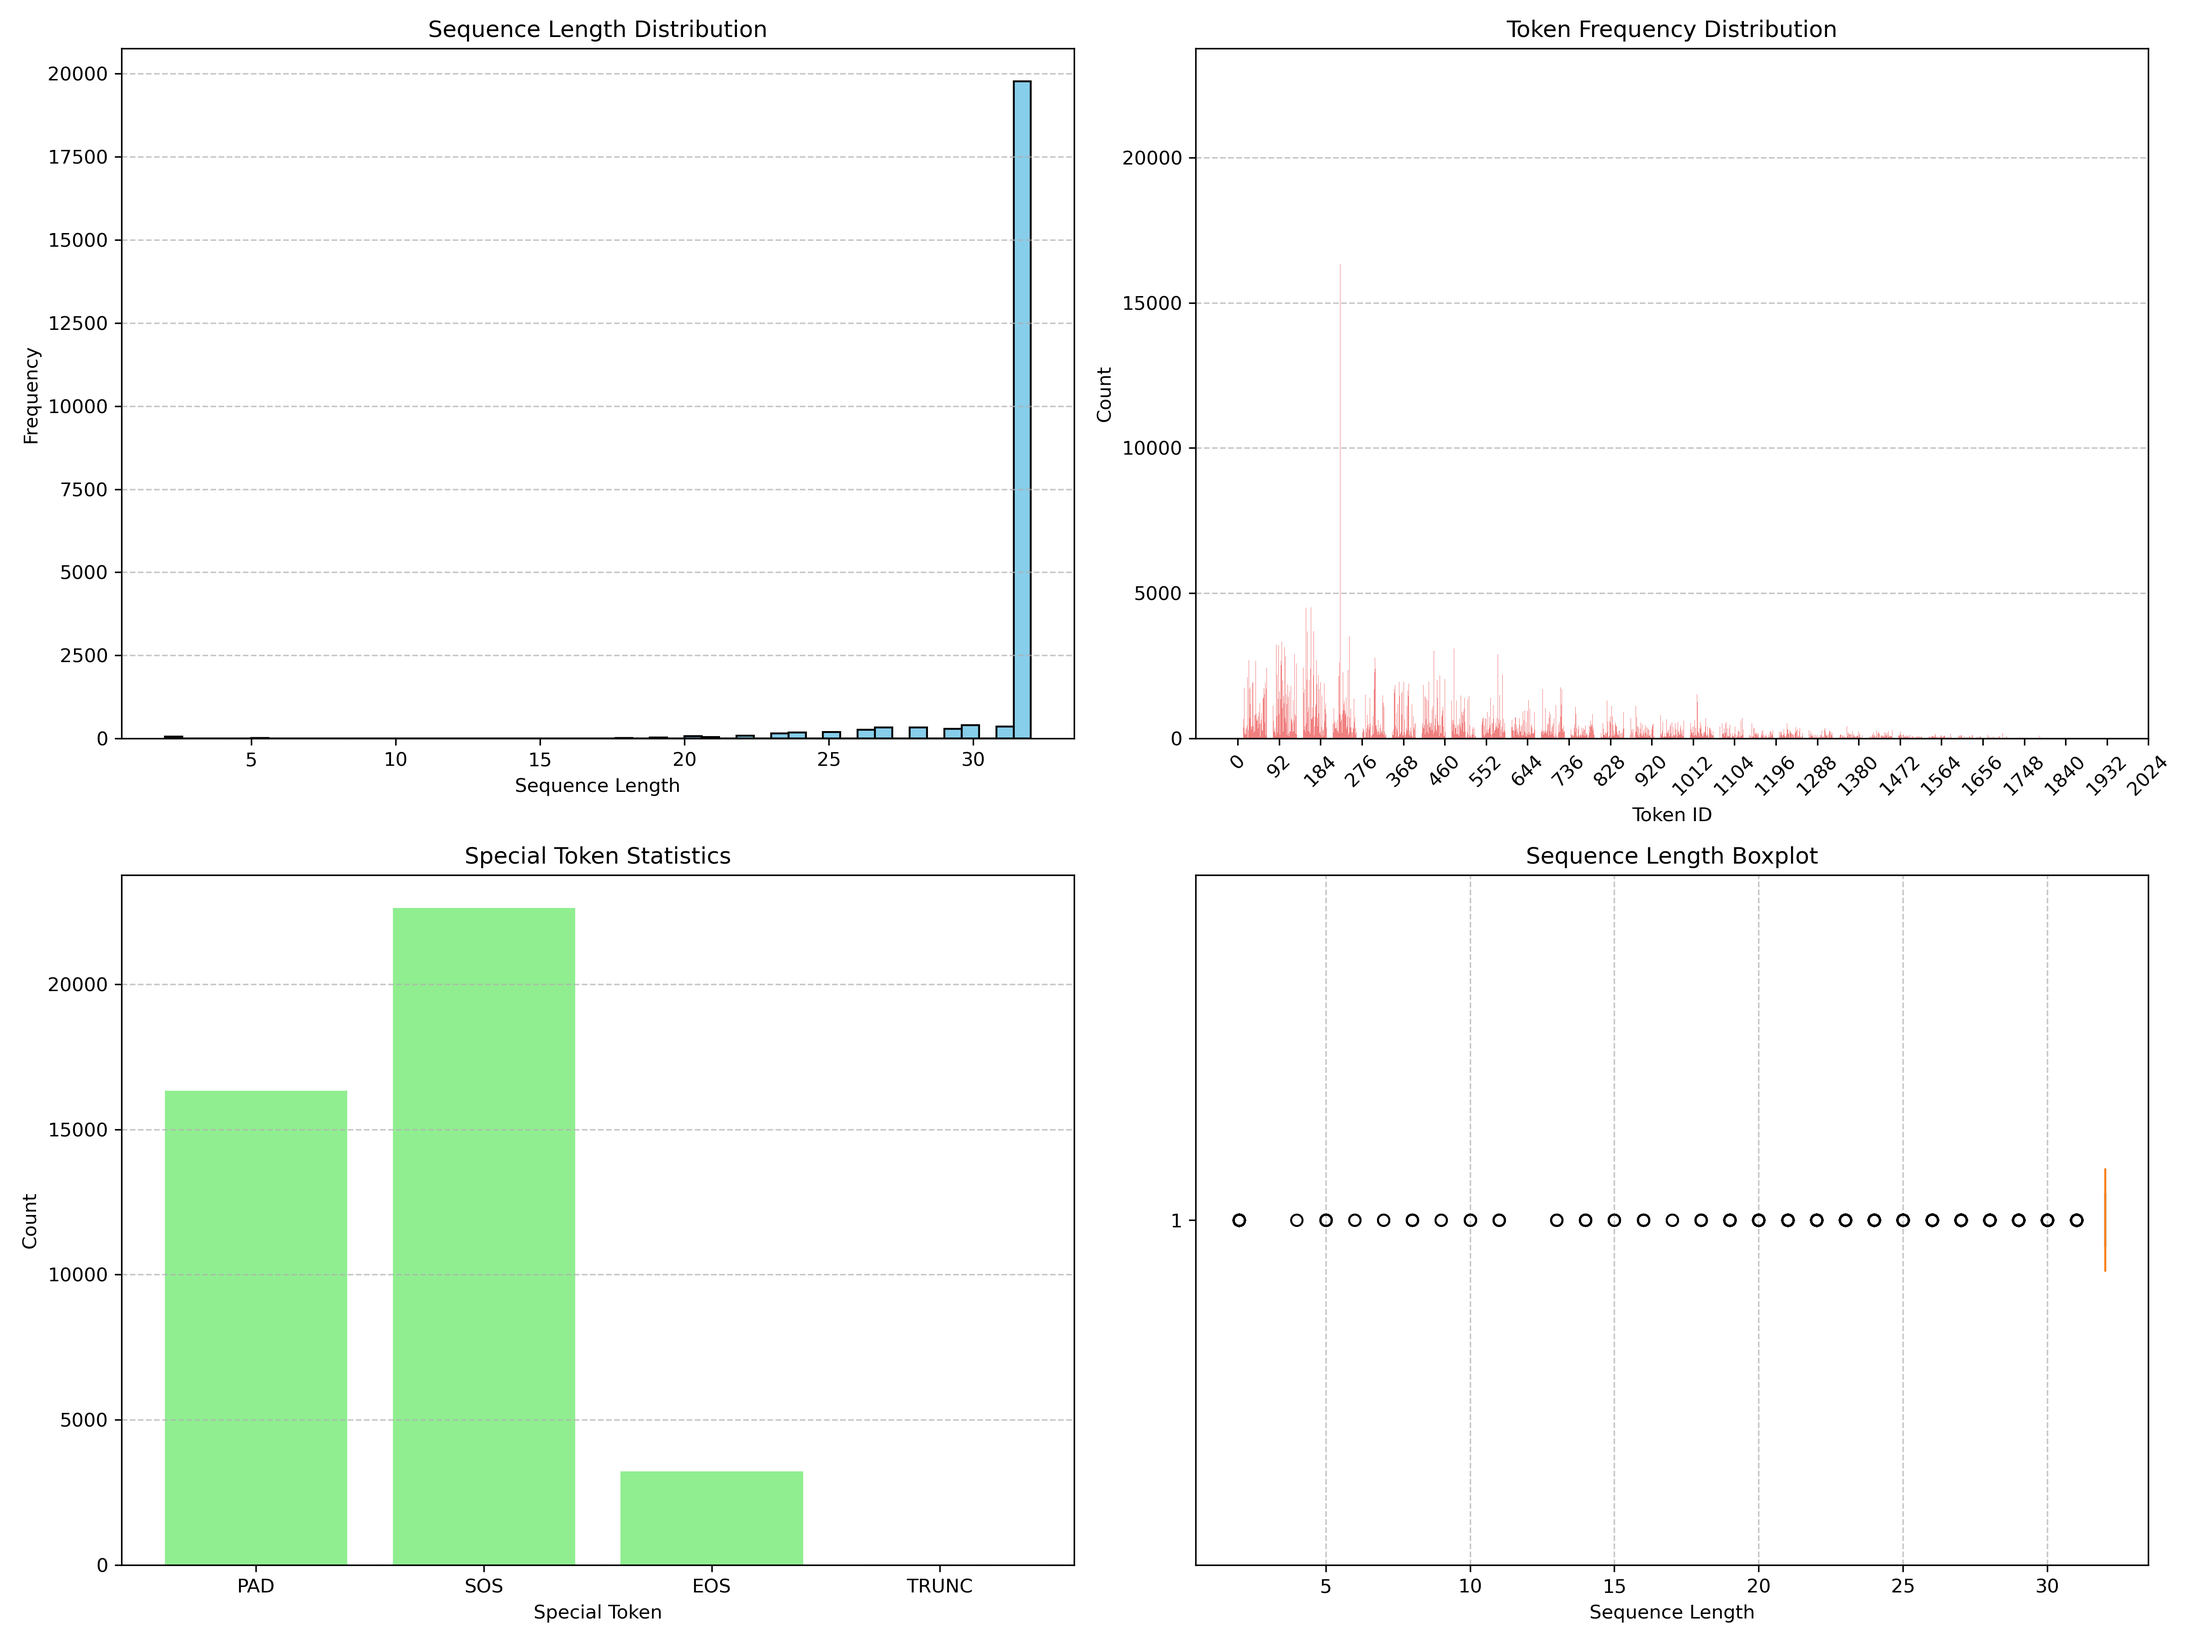
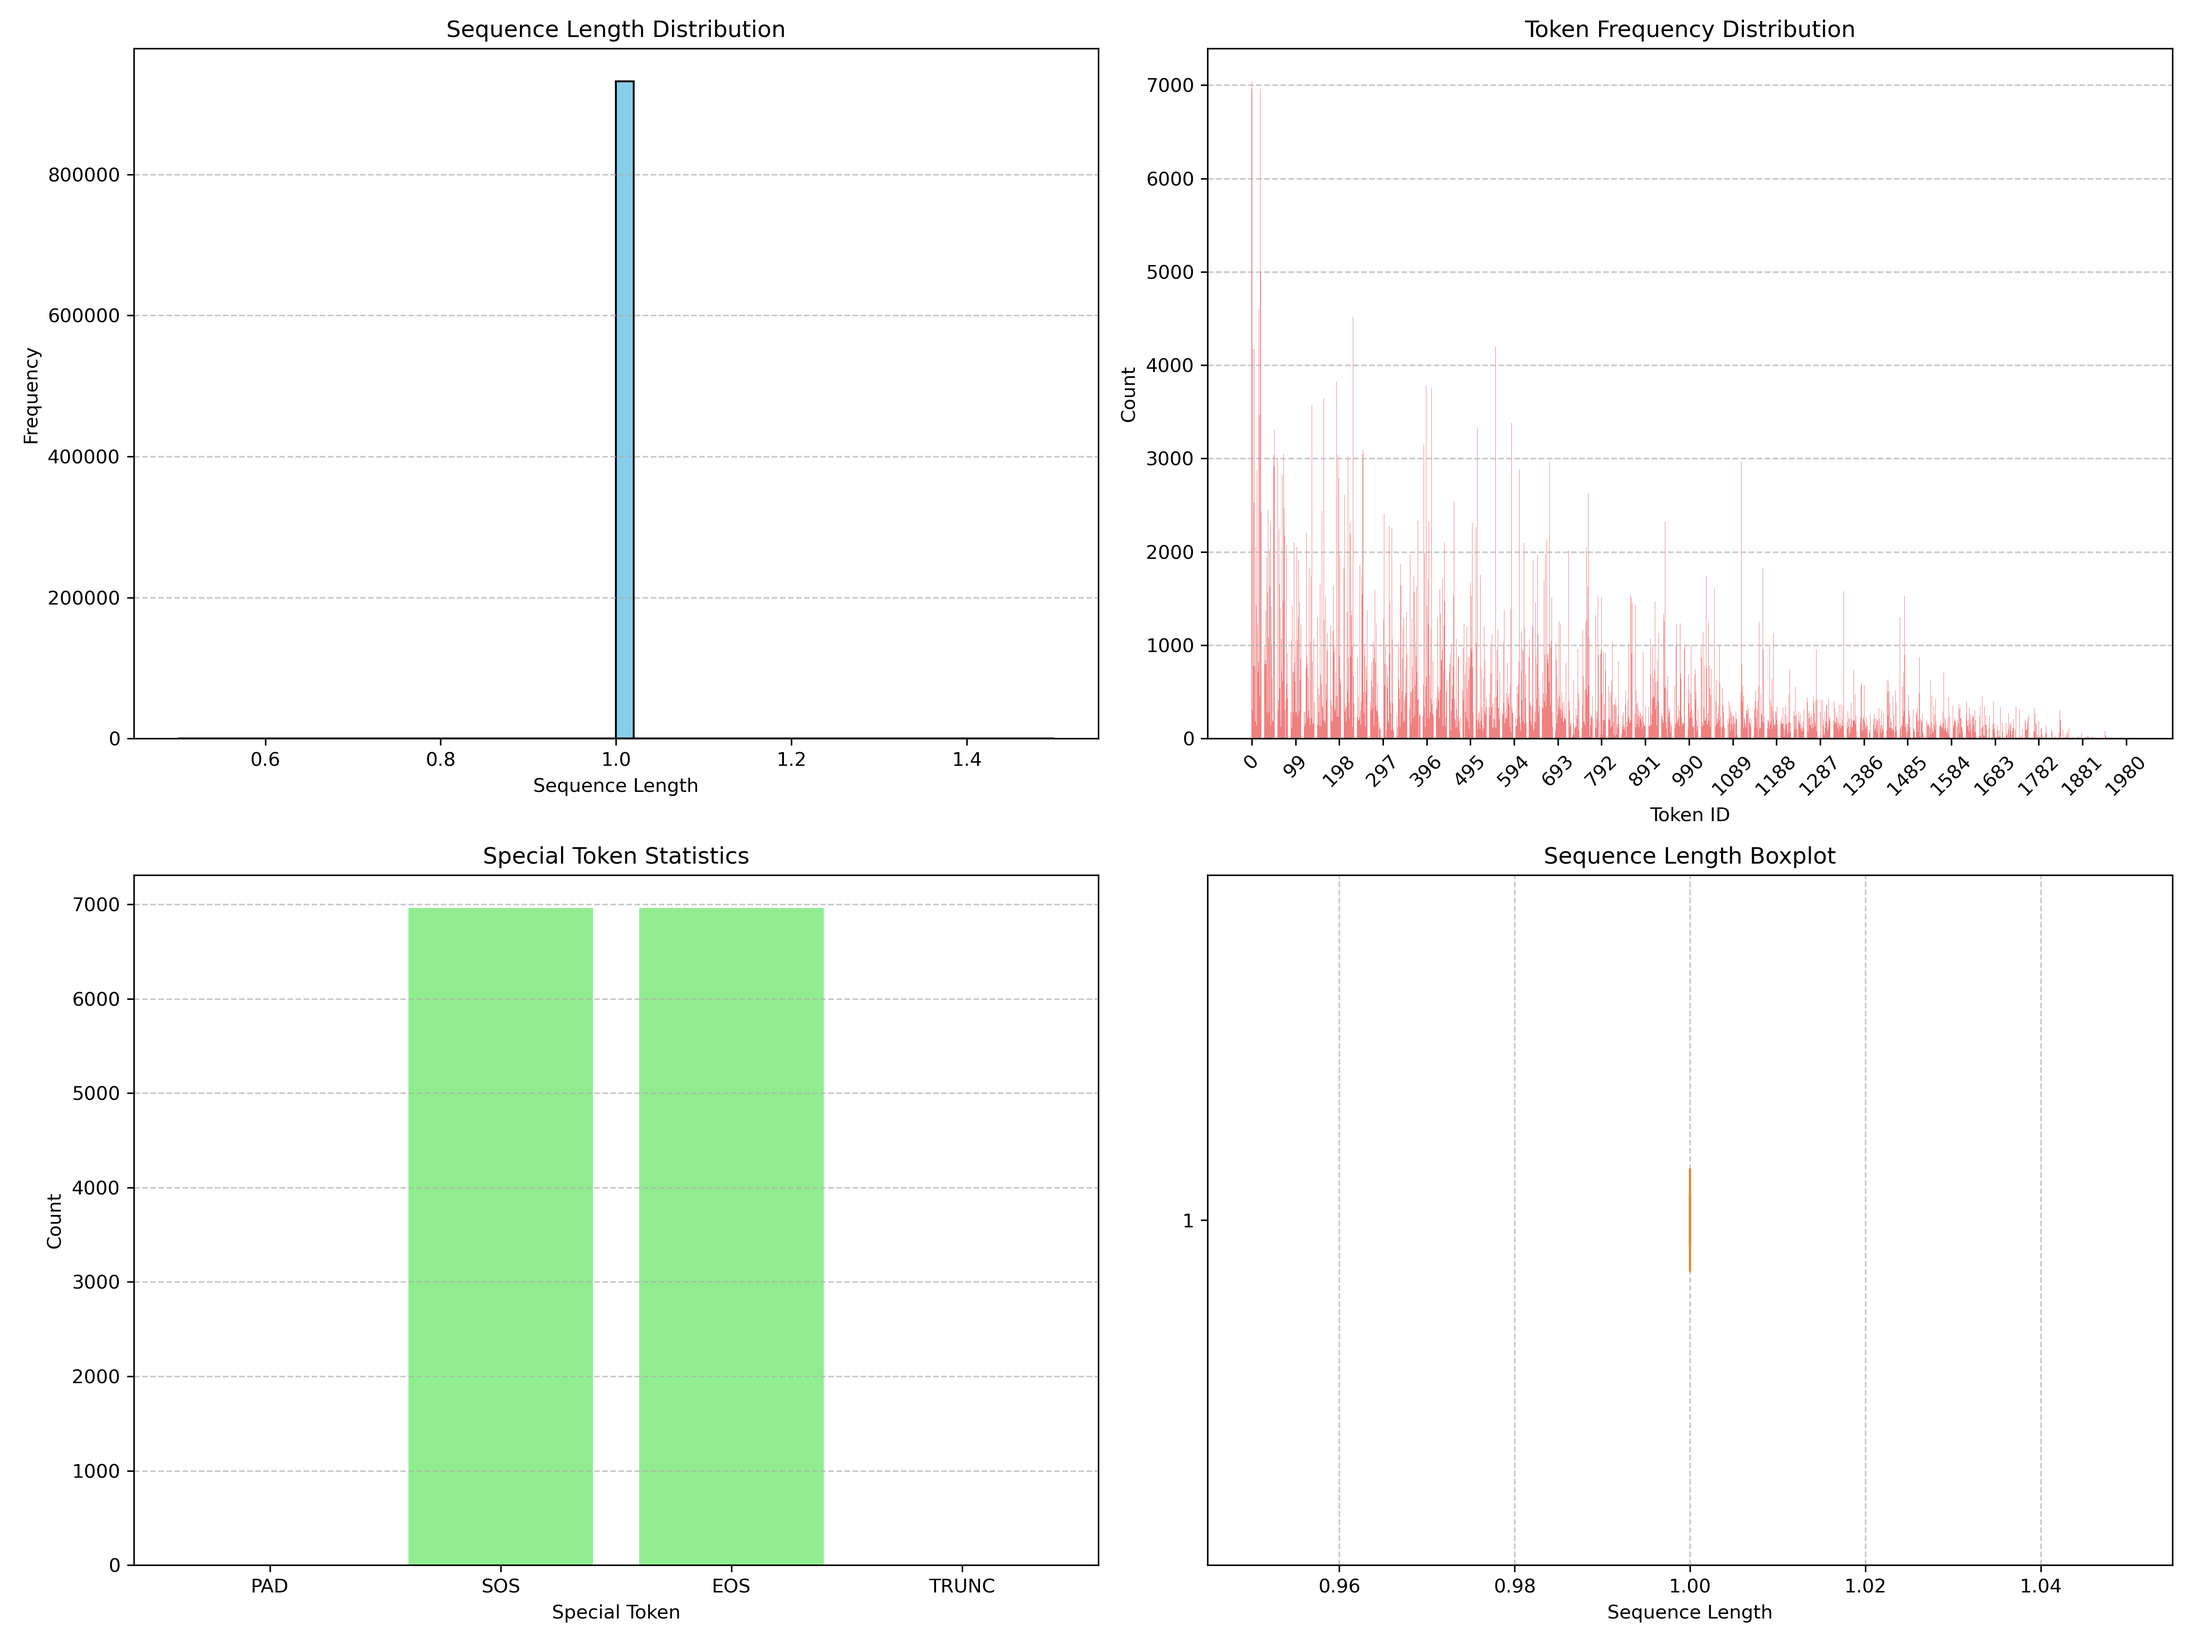
use a flat array as input

diff --git a/CUPY/models/utils/tokenize_data_fast.py b/CUPY/models/utils/tokenize_data_fast.py
@@ -102,52 +102,29 @@ def tokenize_dataset_to_bin(self, files_paths: str | Path | Sequence[str | Path]
 
         # Tokenize the Score
         tokens = self.encode(score)
-            
+
         # Collect token IDs
         token_ids = tokens[0].ids
-
         
         all_ids.append(token_ids)
-        max_length = max(max_length, len(token_ids))
-        
-        if seq_length is None:
-            seq_length = max_length
 
-
-
-    """
-    If the sequence length is longer than 'seq_len' we add the sos token to the beginning and add a custom truncate token to the end
-    to specify that we have truncated the midi file
     
+    total_number_of_tokens = 0
+    for ids in all_ids:
+        total_number_of_tokens += len(ids)
+    print(f"Total Number of Tokens: {total_number_of_tokens}")
     """
-    # Convert collected token IDs to a padded NumPy array
+    Create a flat array
+    """
     if (manually_add_sos_eos):
-        token_array = np.empty((len(all_ids), seq_length), dtype = np.int16)
+        token_sequence = []
         
-        for idx, ids in enumerate(all_ids):
+        for ids in all_ids:
             # Start with a start token
-            token_sequence = [sos_token]
-            
-            if (len(ids) > seq_length - 1): # Truncate if too long
-                token_sequence += ids[:seq_length - 1] 
-            else:
-                token_sequence += ids
-                token_sequence += [eos_token]
-            
-            # Ensure the sequence is exactly seq_length
-            token_sequence = token_sequence[:seq_length]
-            token_sequence += [pad_token] * (seq_length - len(token_sequence))
-        
-            # Assign to token array
-            token_array[idx, :] = token_sequence
-    else:
-        token_array = np.array(
-        [
-            ids[:seq_length] + [pad_token] * (seq_length - len(ids[:seq_length]))
-            for ids in all_ids
-        ],
-        dtype=np.int16
-                              )
+            token_sequence.extend([sos_token] + ids + [eos_token])
+    # Convert to numpy 
+    print(len(token_sequence))
+    token_array = np.array(token_sequence, dtype = np.int16)
     
     
     

diff --git a/CUPY/models/utils/generate_train_val_test.py b/CUPY/models/utils/generate_train_val_test.py
@@ -58,7 +58,7 @@ midi_paths_train = midi_paths[num_files_valid + num_files_test:]
 train_val_test_path = {}
  # Chunk MIDIs and perform data augmentation on each subset independently
 for files_paths, subset_name in (
-     (midi_paths_train, "train"), (midi_paths_valid, "val"), (midi_paths_test, "test")
+    (midi_paths_train, "train"),  (midi_paths_valid, "val"), (midi_paths_test, "test")
  ):
         
      # Split the MIDIs into chunks of sizes approximately about 'seq_length' tokens
